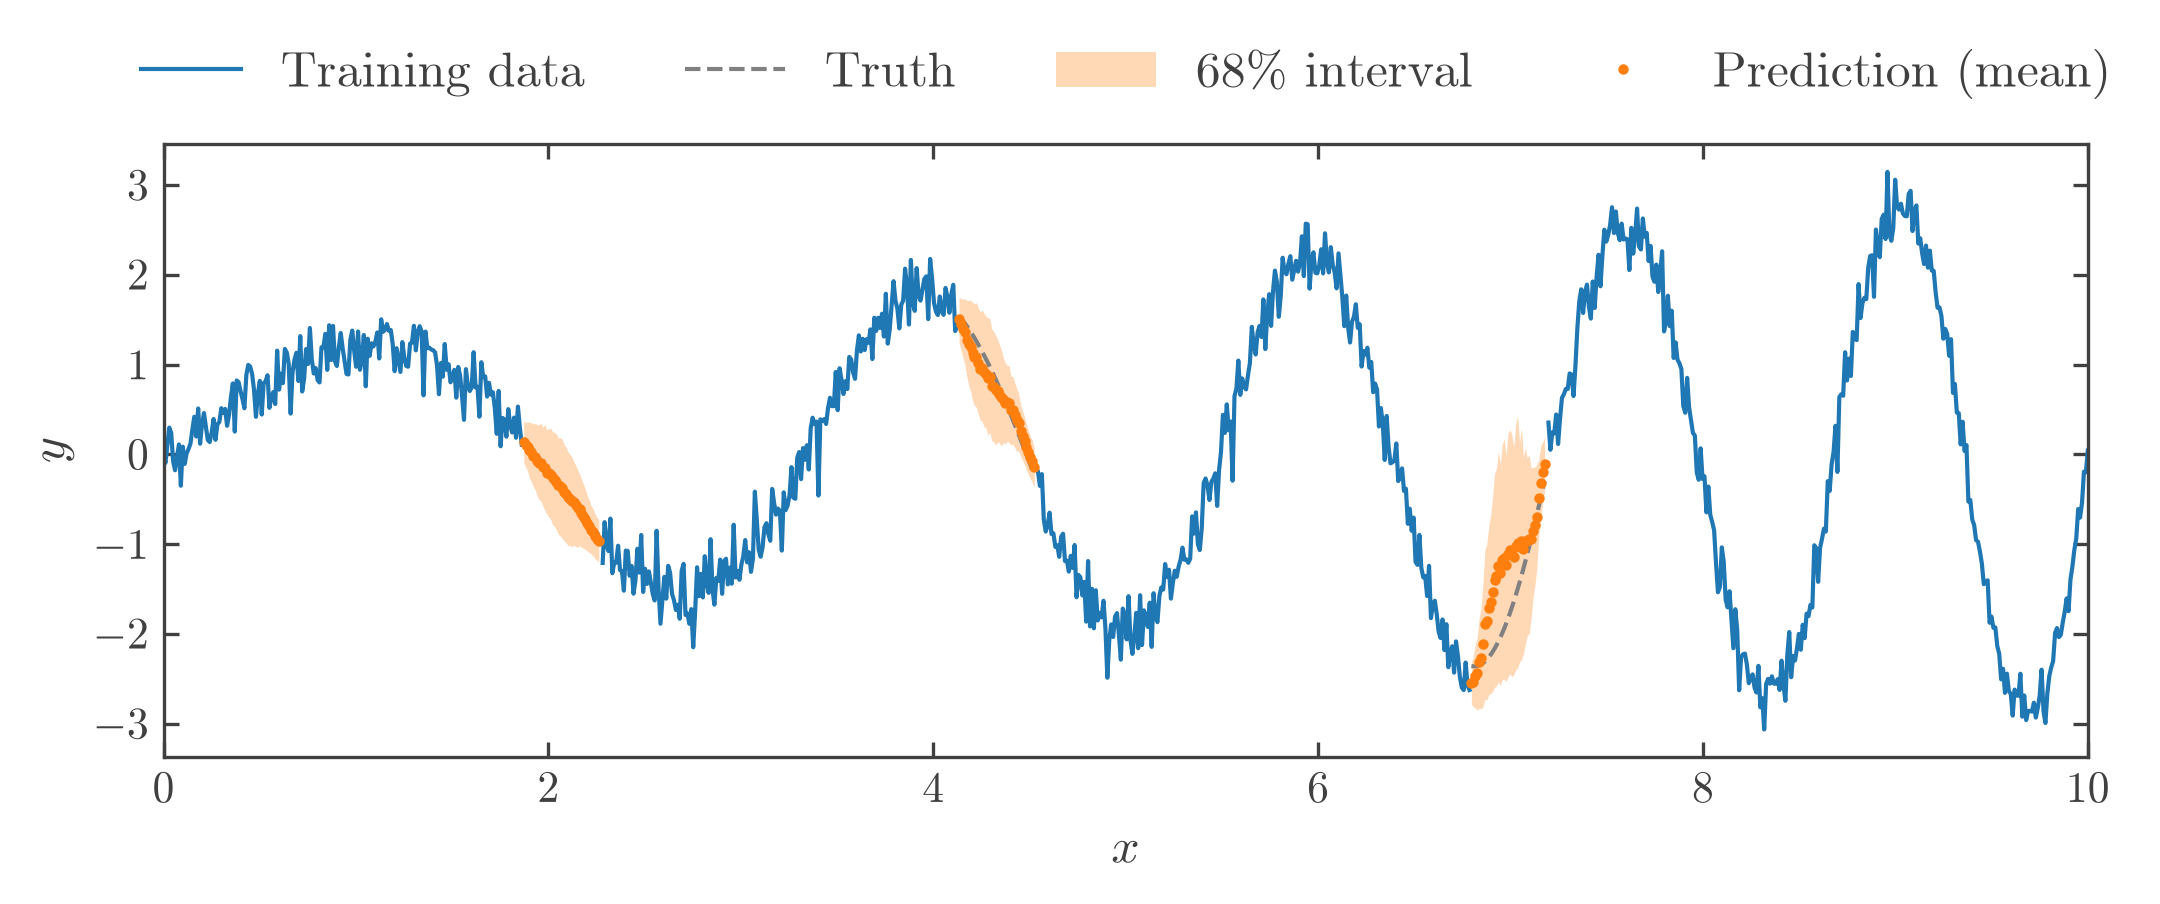
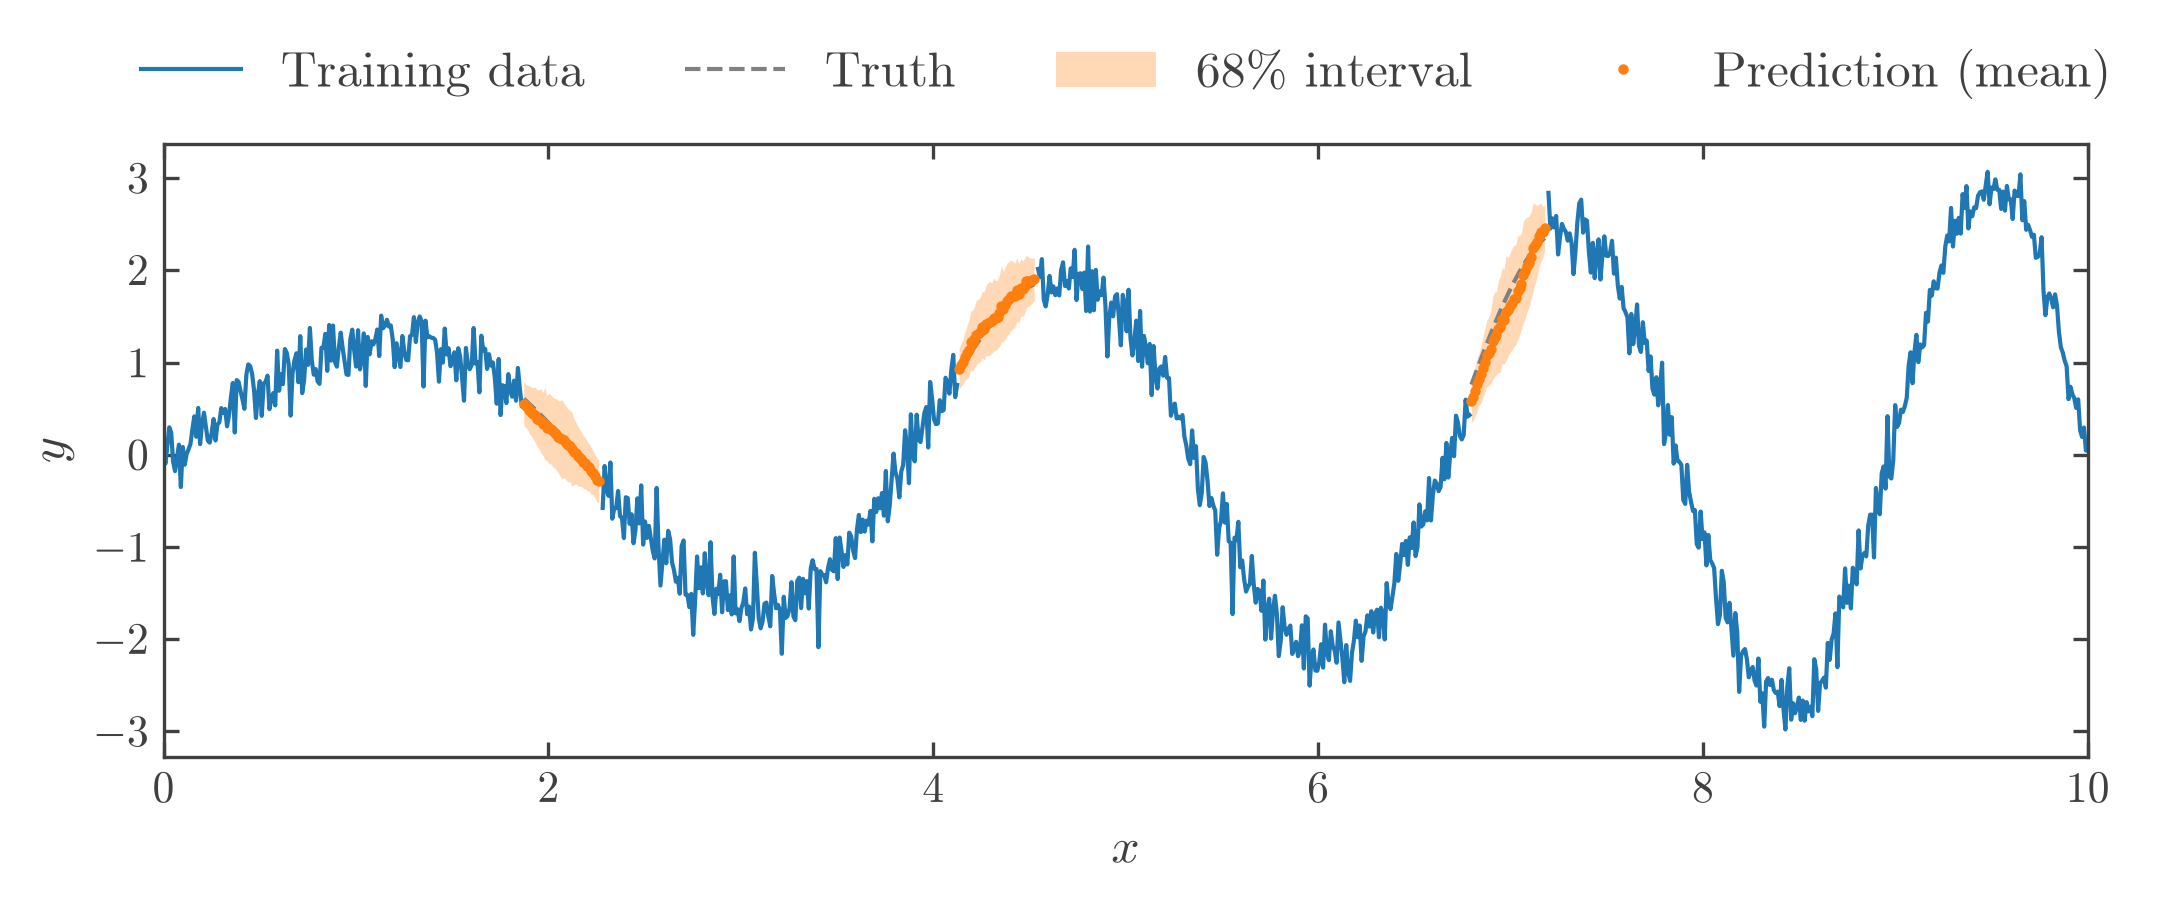
Slow make_chirp to 0.5 cycles per unit, for a cleaner demo
The chirp's frequency now grows from 0.2 to 0.5 cycles per unit of x
(0.2 + 0.03 x) instead of to 0.8. At the old rate the third gap covered
most of a fast half-cycle, and no setting of the model fixed it (16 or
32 members, temperature 0.8 and quantile transforms all left its rms
error at 0.39 or more). On the slower curve TabPFN-3.5 at its defaults
misses the three gaps by 0.04, 0.06 and 0.15 rms, and the noise-free
curve lies inside the 68% interval at every test point. The figure
script now takes the true curve from make_chirp rather than restating
its formula.

diff --git a/src/lazy/datasets.py b/src/lazy/datasets.py
@@ -1241,7 +1241,7 @@ def make_chirp(
 
     A toy regression problem with one feature: ``y = A(x) sin(phi(x))`` on
     ``0 <= x <= 10``, where the amplitude ``A(x) = 1 + 0.2 x`` grows from 1
-    to 3 and the frequency ``phi'(x) / 2 pi = 0.2 + 0.06 x`` from 0.2 to 0.8
+    to 3 and the frequency ``phi'(x) / 2 pi = 0.2 + 0.03 x`` from 0.2 to 0.5
     cycles per unit of ``x``. Gaussian noise is added to the training rows,
     and ``n_gaps`` chunks of ``x`` are cut out of them and returned, without
     noise, as the test rows, so the true curve is known where a model has to
@@ -1278,7 +1278,7 @@ def make_chirp(
         )
     rng = np.random.default_rng(random_state)
     x = np.linspace(0.0, 10.0, n_samples)
-    y = (1.0 + 0.2 * x) * np.sin(2.0 * np.pi * (0.2 * x + 0.03 * x**2))
+    y = (1.0 + 0.2 * x) * np.sin(2.0 * np.pi * (0.2 * x + 0.015 * x**2))
     width = 10.0 * gap_width
     segment = 10.0 / max(n_gaps, 1)
     starts = segment * np.arange(n_gaps) + rng.uniform(

diff --git a/tests/lazy/test_datasets.py b/tests/lazy/test_datasets.py
@@ -645,7 +645,7 @@ def test_make_chirp_cuts_its_gaps_into_the_test_rows():
     assert np.count_nonzero(np.diff(in_gap.astype(int)) == 1) == 3
     assert 3 * 55 <= len(X_test) <= 3 * 62
     # The test targets are the noise-free curve; the training ones are not.
-    truth = (1 + 0.2 * x) * np.sin(2 * np.pi * (0.2 * x + 0.03 * x**2))
+    truth = (1 + 0.2 * x) * np.sin(2 * np.pi * (0.2 * x + 0.015 * x**2))
     np.testing.assert_array_equal(y_test, truth[in_gap])
     assert 0.15 < np.std(y_train - truth[~in_gap]) < 0.25
 

diff --git a/docs/figures/make_figures.py b/docs/figures/make_figures.py
@@ -314,10 +314,8 @@ plt.close(fig)
 
 # %%
 x_full, _, y_full, _ = datasets.make_chirp(n_gaps=0, random_state=0)
-x_grid = np.linspace(0.0, 10.0, 400)[:, None]
-truth = (1 + 0.2 * x_grid[:, 0]) * np.sin(
-    2 * np.pi * (0.2 * x_grid[:, 0] + 0.03 * x_grid[:, 0] ** 2)
-)
+# The noise-free curve on a 400-point grid, from make_chirp itself.
+x_grid, _, truth, _ = datasets.make_chirp(400, noise=0.0, n_gaps=0)
 sizes = (20, 100, 400)
 fig, axes = plt.subplots(
     1,

diff --git a/docs/index.md b/docs/index.md
@@ -77,10 +77,9 @@ The noisy chirp generated by `make_chirp` and TabPFN-3.5's predictions in the
 three gaps. The blue line shows the training data, the gray dashed line the
 true curve in the gaps, the orange points the mean of each predicted
 distribution and the orange band its central 68% interval. We observe that the
-mean tracks the true curve in each gap, most closely in the first two, and
-that the true curve lies within the 68% interval everywhere in the three gaps
-(the interval describes the noisy targets, so it is wider than the uncertainty
-on the curve itself).
+mean follows the true curve closely in all three gaps, and that the true curve
+lies within the 68% interval everywhere in them (the interval describes the
+noisy targets, so it is wider than the uncertainty on the curve itself).
 ```
 
 The model was never trained on this curve. `fit` stores the training rows
